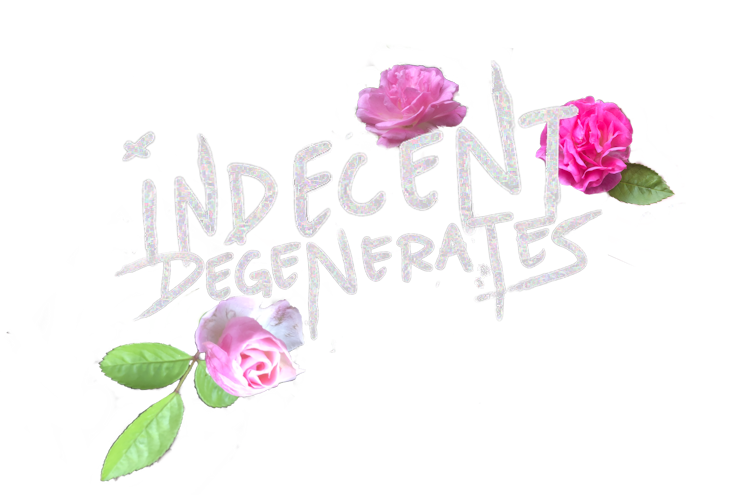
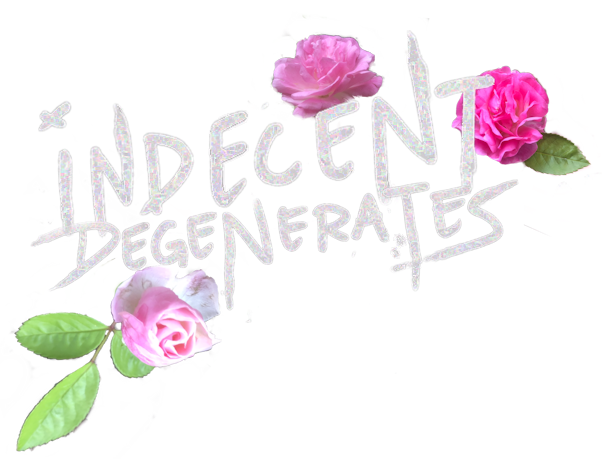
testing

Changed region(s): [[0.0299, 0.061, 0.9851, 1.0], [0.0597, 0.2135, 0.1194, 0.305]]

diff --git a/videos.html b/videos.html
@@ -57,16 +57,22 @@
 
 
 
+<br><br><br>
+
+
+<img src="https://rhynep.github.io/id/images/singleflower1.png" id="flower1" alt="pink rose" width="100px">
+<img src="https://rhynep.github.io/id/images/singleflower3.png" id="flower3" alt="pink rose with leaf" width="100px">
+
 
 
 
     <footer id="footer">   
        
-           <a href="https://www.instagram.com/indecentdegenerates" target="_blank"><img id="instagram" src="http://rhynep.github.io/id/images/ig2.png" width="44" height="44"></a>
-            <a href="https://www.youtube.com/channel/UC-e_EmbtmVUJEyHM11M2qsw" target="_blank"><img id="youtube" src="http://rhynep.github.io/id/images/yt2.png" width="44" height="44"></a>
-            <a href="https://twitter.com/IDegenerates" target="_blank"><img id="twitter" src="http://rhynep.github.io/id/images/t2.png" width="44" height="44"></a>
-            <img id="facebook" src="http://rhynep.github.io/id/images/fb2.png" width="44" height="44">
-           <a href="https://indecentdegenerates.bandcamp.com" target="_blank"><img id="bandcamp" src="http://rhynep.github.io/id/images/bc2.png" width="44" height="44"></a>   
+           <a href="https://www.instagram.com/indecentdegenerates" target="_blank"><img id="instagram" src="http://rhynep.github.io/id/images/ig2.png" width="44" height="44" alt="instagram"></a>
+            <a href="https://www.youtube.com/channel/UC-e_EmbtmVUJEyHM11M2qsw" target="_blank"><img id="youtube" src="http://rhynep.github.io/id/images/yt2.png" width="44" height="44" alt="youtube"></a>
+            <a href="https://twitter.com/IDegenerates" target="_blank"><img id="twitter" src="http://rhynep.github.io/id/images/t2.png" width="44" height="44" alt="twitter"></a>
+            <img id="facebook" src="http://rhynep.github.io/id/images/fb2.png" width="44" height="44" alt="facebook">
+           <a href="https://indecentdegenerates.bandcamp.com" target="_blank"><img id="bandcamp" src="http://rhynep.github.io/id/images/bc2.png" width="44" height="44" alt="bandcamp"></a>   
      
     </footer>
 

diff --git a/idstyleblack.css b/idstyleblack.css
@@ -604,18 +604,29 @@ div.flashes2 {
 img#flower1 {
     position:fixed;
     top:22px;
-    right:7%;
+    right:22px;
     bottom:11px;
-    padding-bottom:11%;
+    padding-top:22px;
     margin-bottom:5px;
     opacity: 0.7;
-    transform: rotate(3deg);
+    transform: rotate(111deg);
 }
 
 img#flower2 {
-    position:fixed;
+    position:absolute;
     bottom:33px;
     left:11px;
+    bottom:11px;
+    padding-bottom:1%;
+    margin-bottom:5px;
+    opacity: 0.7;
+    transform: rotate(77deg) scale(0.9);
+}
+
+img#flower3 {
+    position:absolute;
+    bottom:477px;
+    right:577px;
     bottom:11px;
     padding-bottom:1%;
     margin-bottom:5px;
